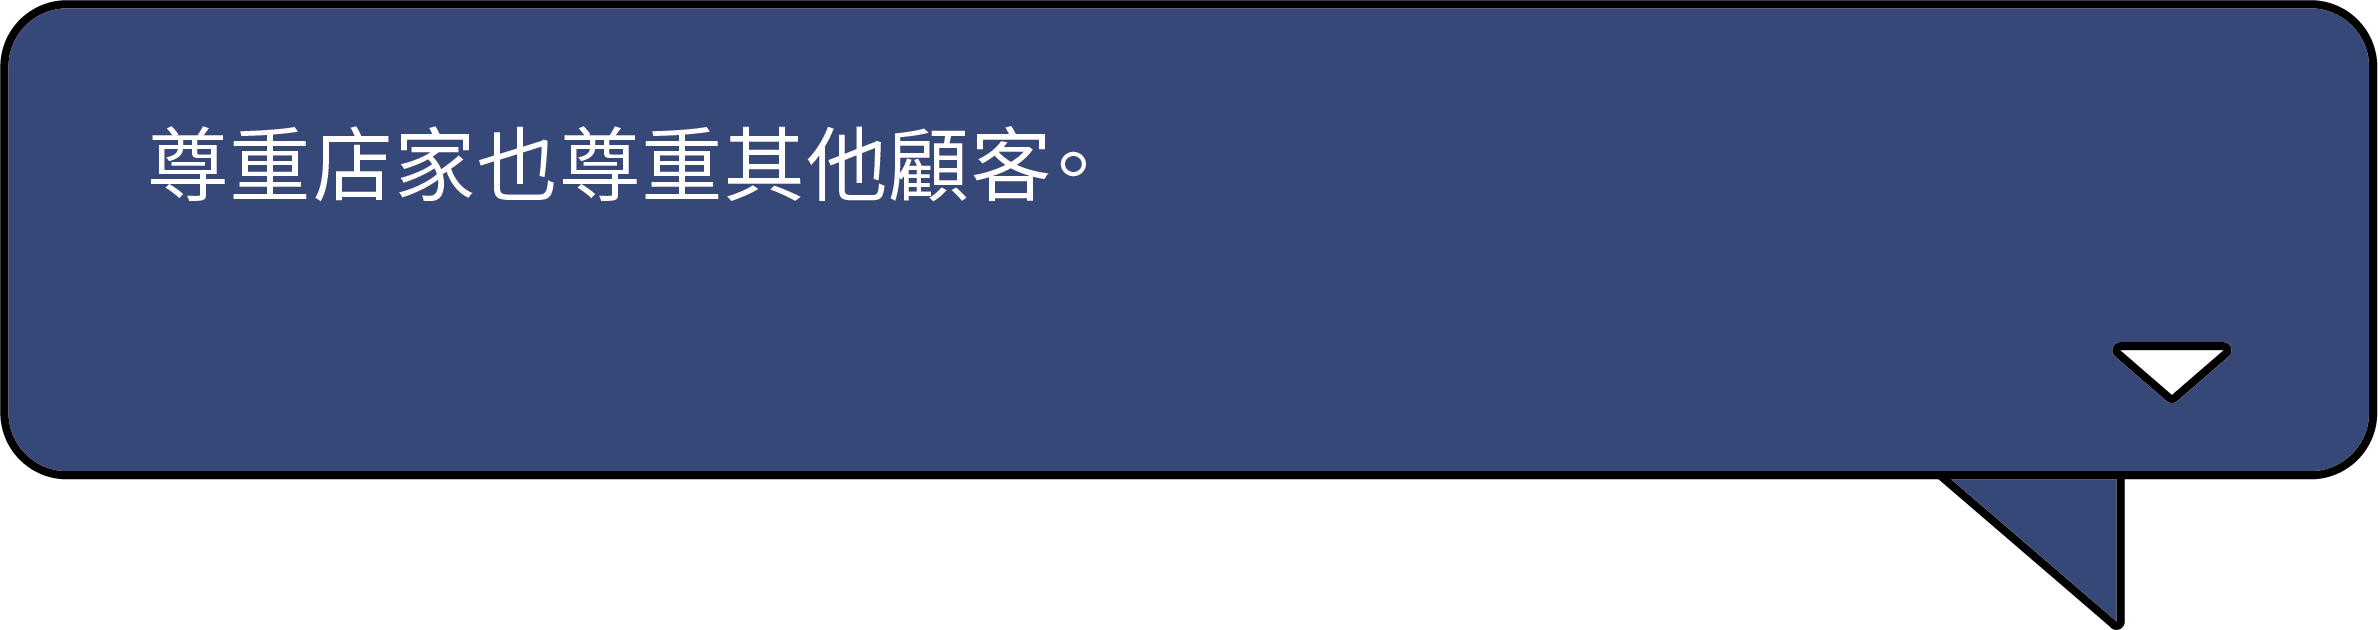
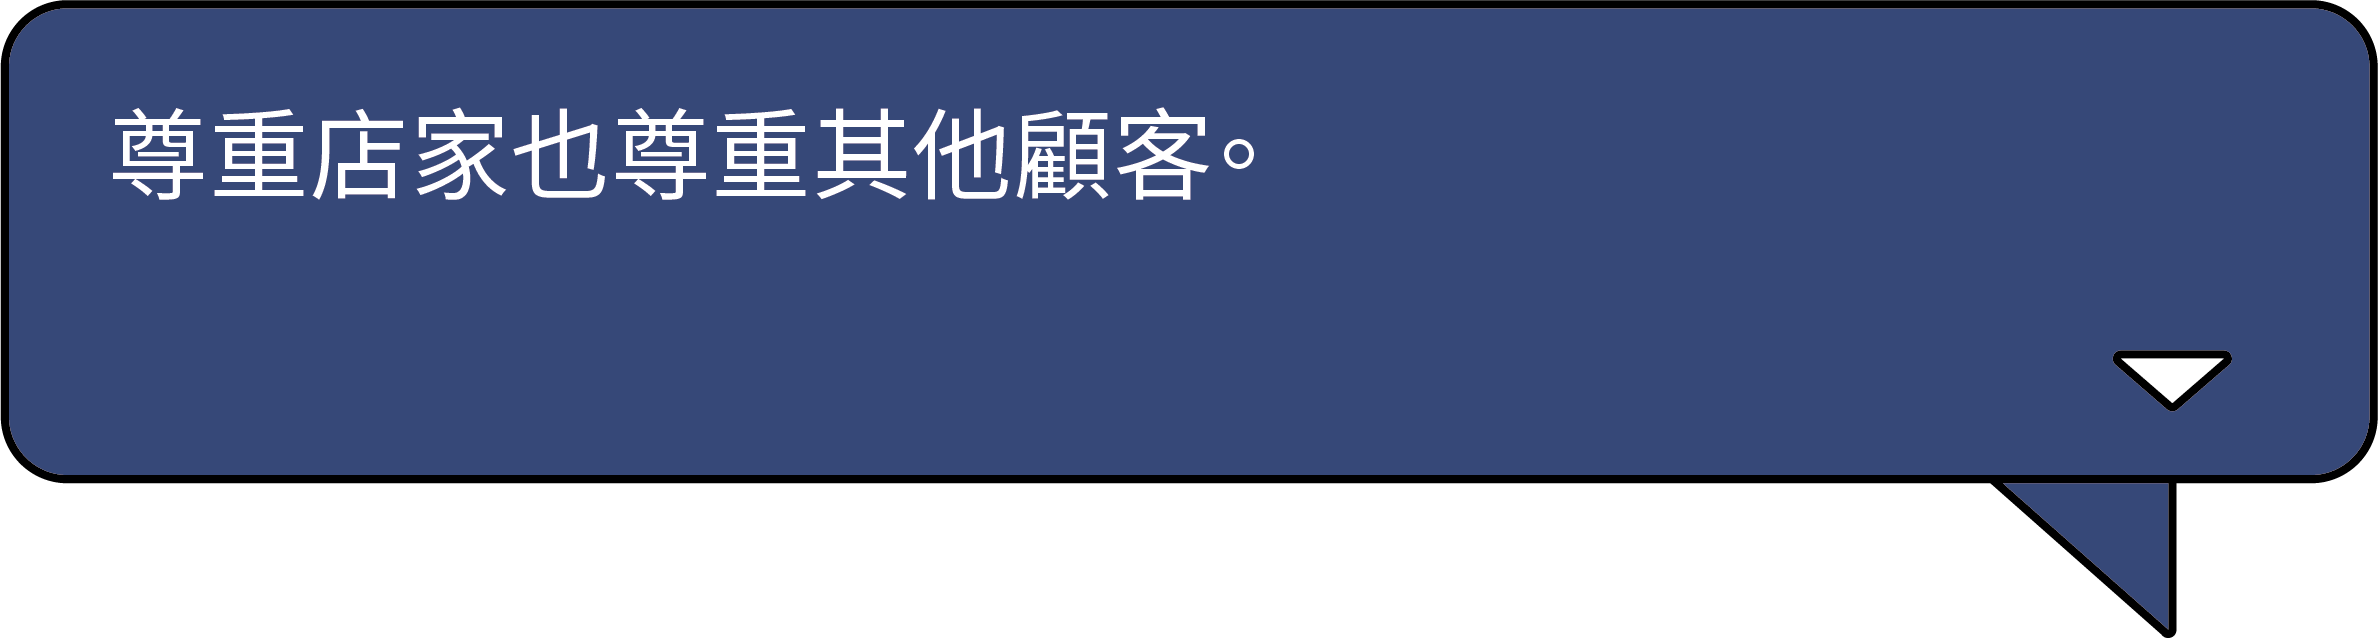
0425

diff --git a/index.js b/index.js
@@ -75,8 +75,8 @@ const occupys = [
     new Shared({x:mesterTalkX, y:mesterTalkY-630/4.5, w:2378/4.5, h:630/4.5, image: createImage('./images/occupys/talk/res.png'), isTalk:true, isEnlarge:false, multiple:1, name:'6A', isShow:false , text:"但林北實在累到快昏倒，天氣熱、腳又酸，偏偏這條街上可以休息德地方少的可憐餒", isTypewriter:true}),
     new Shared({x:mesterTalkX, y:mesterTalkY-630/4.5, w:2378/4.5, h:630/4.5, image: createImage('./images/occupys/talk/res.png'), isTalk:true, isEnlarge:false, multiple:1, name:'6B', isShow:false ,text:"洗勒考喔！是在趕狗出去喔！", isTypewriter:true}),
     new Shared({x:mesterTalkX, y:mesterTalkY-630/4.5, w:2378/4.5, h:630/4.5, image: createImage('./images/occupys/talk/res.png'), isTalk:true, isEnlarge:false, multiple:1, name:'8', isShow:false ,text:"賀啦！也算是多虧這家店，林北才有地方休息，林北會盡量不影響其他人啦！", isTypewriter:true}),
-    new Shared({x:canvas.width/2 - (2378/4.5)/2, y:canvas.height/2 - (482/4.5)/2, w:2378/4.5, h:482/4.5, image: createImage('./images/occupys/talk/9.png'), isTalk:true, isEnlarge:false, multiple:1, name:'9', isShow:false ,}),
-    new Shared({x:canvas.width/2 - (112/2)/2 + 200, y:canvas.height/2 - (68/2)/2 + 20, w:112/2, h:68/2, image: createImage('./images/buttons/chk.png'), isEnlarge:false, multiple:1, name:'chk', isShow:false ,}),
+    new Shared({x:canvas.width/2 - (3149/4.5)/2, y:canvas.height/2 - (482/4.5)/2, w:3149/4.5, h:485/4.5, image: createImage('./images/occupys/talk/9.png'), isTalk:true, isEnlarge:false, multiple:1, name:'9', isShow:false ,}),
+    new Shared({x:canvas.width/2 - (112/2)/2 + 300, y:canvas.height/2 - (68/2)/2 + 20, w:112/2, h:68/2, image: createImage('./images/buttons/chk.png'), isEnlarge:false, multiple:1, name:'chk', isShow:false ,}),
 ]
 const buttons = {
     close: new Button({x:(canvas.width - ( canvas.height*0.8*1.844 ))/2 + canvas.height*0.8*1.844 - 10,y:(canvas.height - canvas.height *0.8)/2 - 50, w:418/9, h:418/9, image: createImage('./images/buttons/close.png'), name:"close", multiple:1.05}),

diff --git a/js/eventListener.js b/js/eventListener.js
@@ -87,12 +87,19 @@ canvas.addEventListener('mousemove', (e)=>{
             if(x >= occupy.position.x && x<=occupy.position.x+occupy.width && y>=occupy.position.y && y<=occupy.position.y + occupy.height){
                 occupy.width = occupy.bigWidth
                 occupy.height = occupy.bigHeight
+                if((!occupy.image.src.includes('_.png')) && occupy.talk){
+                    occupy.image.src = occupy.image.src.replace('.png', '_.png')
+                }
+                
                 return canvas.style.cursor = "pointer"
                 
             }
             occupy.width = occupy.oldWidth
             occupy.height = occupy.oldHeight
             canvas.style.cursor = "default"
+            if(occupy.image.src.includes('_.png')){
+                occupy.image.src = occupy.image.src.replace('_.png', '.png')
+            }
         })
     }
     
